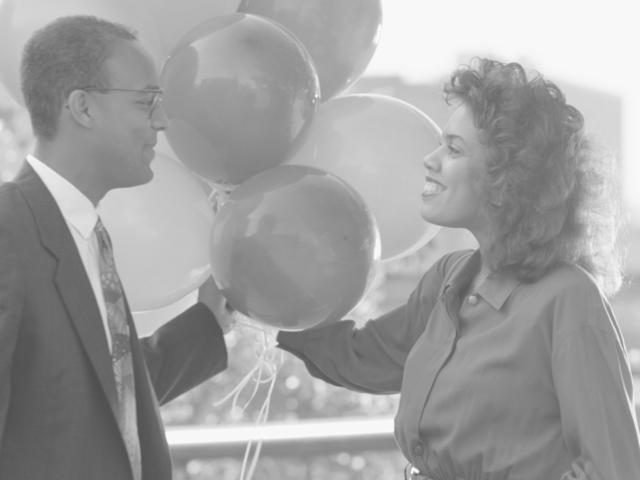
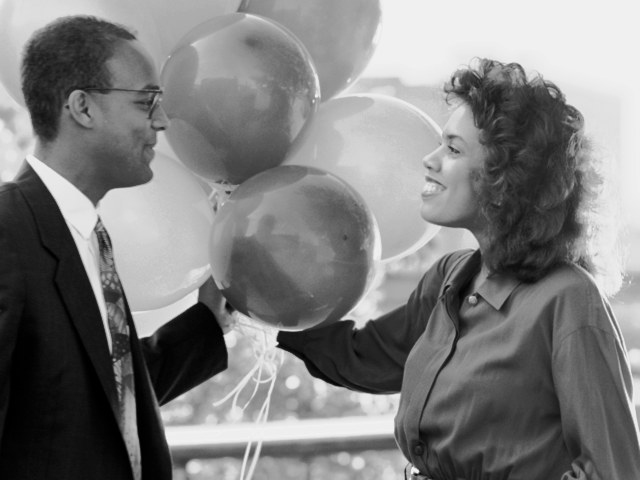
feat(equalization.py): update

diff --git a/equalization.py b/equalization.py
@@ -47,7 +47,7 @@ def equalization():
   # plt.subplot(232),plt.imshow(img_modify, 'gray'),plt.title('Equalização de Histograma')
 
   # plt.show()
-  cv.imwrite("assets/equalizarion.png", img) #save picture
+  cv.imwrite("assets/equalizarion.png", img_modify) #save picture
 
 
 if __name__ == "__main__":

diff --git a/README.md b/README.md
@@ -1,5 +1,6 @@
 <h1 align="center">
     <img alt="Ecoleta" title="#Threads" src="./assets/comparations.png" />
+    <img alt="Ecoleta" title="#Threads" src="./assets/comparations_alarg.png" />
 </h1>
 
 <h1 align="center">
@@ -41,8 +42,8 @@
 </p>
 
 <h4 align="center"> 
-	 Status: development
-    <!-- Status: Finished -->
+	 <!-- Status: development -->
+    Status: Finished
 </h4>
 
 <p align="center">
@@ -66,9 +67,9 @@ Project of using thread to make the treatment of images using the procedures of 
 
 ## Features
 
-- [x] Contrast widening
-- [x] Histogram Equalization
-- [x] Thread creation
+- [x] Contrast widening [Enlargement](https://github.com/jhonatheberson/threads-SO/blob/master/enlargement.py)
+- [x] Histogram Equalization [Equalization](https://github.com/jhonatheberson/threads-SO/blob/master/equalization.py)
+- [x] Thread creation [threads](https://github.com/jhonatheberson/threads-SO/blob/master/threads.py)
 
 <!--
 ## Layout
